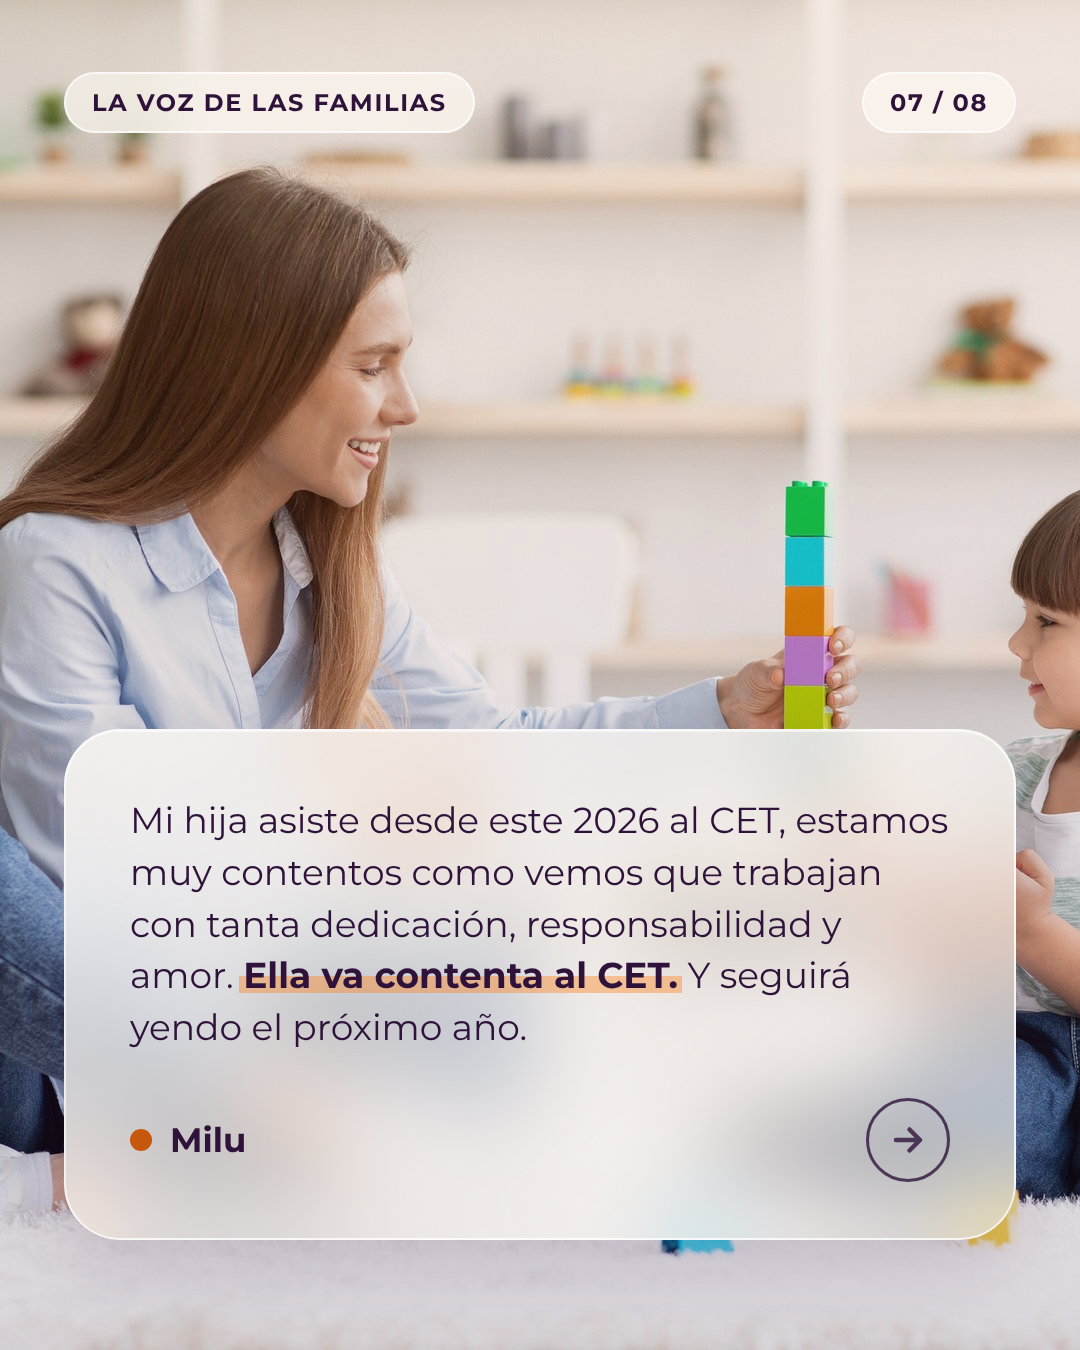
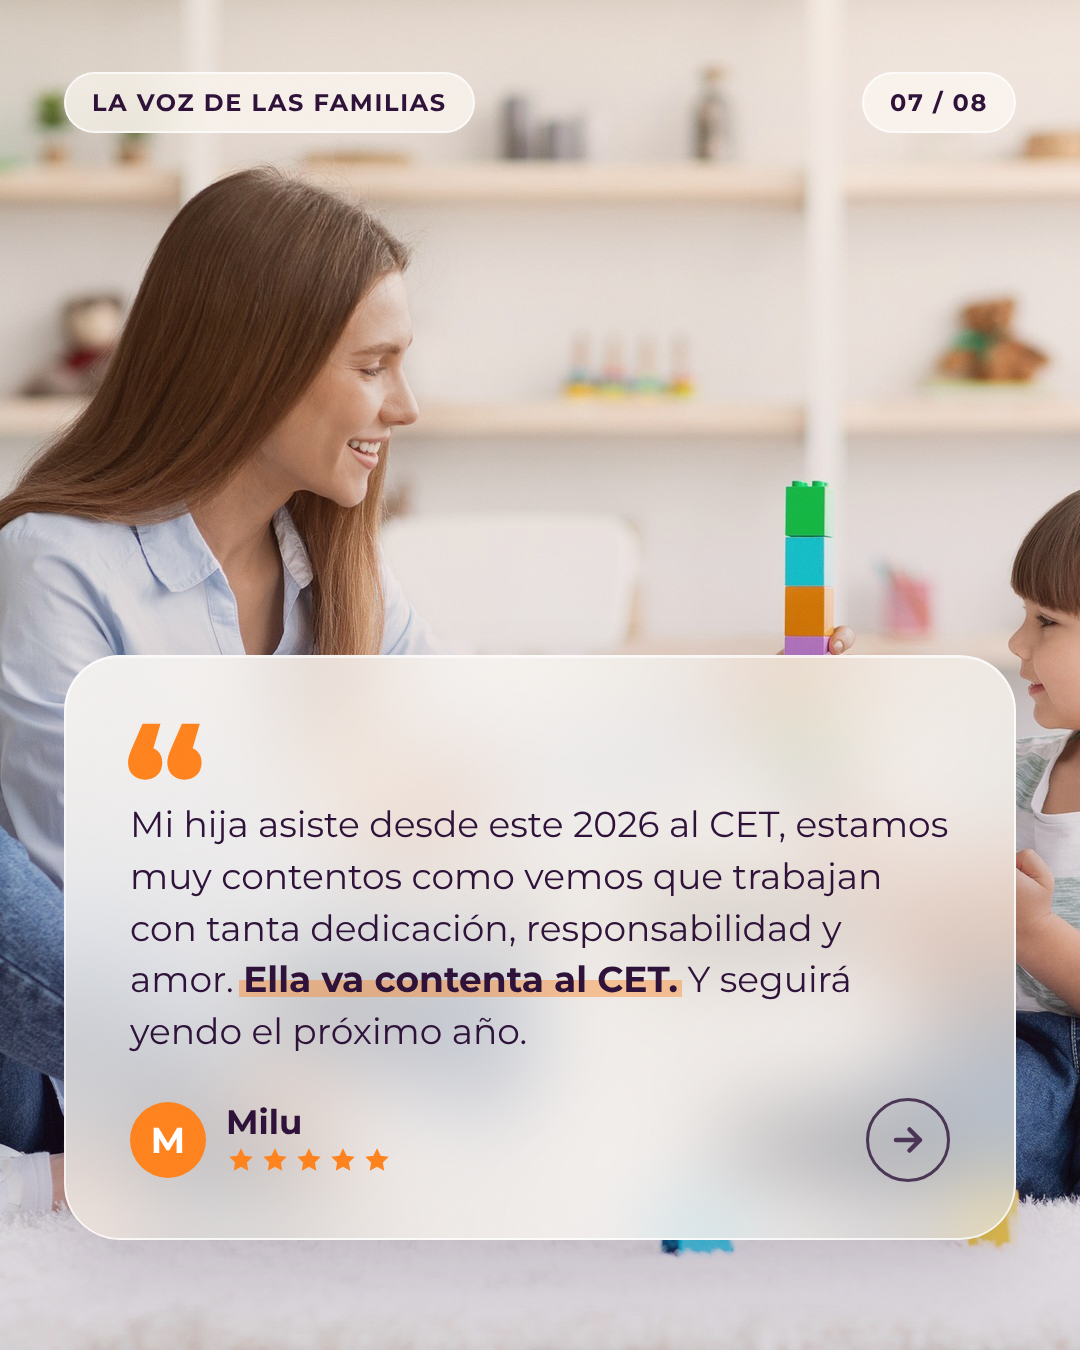
ADIP carousel: add review cues (quote mark, initial, stars)
Claude-Session: https://claude.ai/code/session_01M2Lxgiueyi8rDFxgAsKuBZ

Changed region(s): [[0.0611, 0.4667, 0.9472, 0.7778], [0.1222, 0.8089, 0.3667, 0.8711]]

diff --git a/adip-carrusel-resenas/fuente/carrusel.html b/adip-carrusel-resenas/fuente/carrusel.html
@@ -89,10 +89,16 @@
   .cita + .texto, .texto + .cita { margin-top: 34px; }
   .omite { opacity: .55; font-weight: 600; }
 
-  .pie { display: flex; justify-content: space-between; align-items: center; margin-top: 44px; }
-  .firma { display: flex; align-items: center; gap: 18px; font-size: 34px; font-weight: 700; }
-  .firma::before { content: ""; width: 22px; height: 22px; border-radius: 50%; background: var(--acento); }
-  .firma small { font-size: 30px; font-weight: 400; opacity: .8; }
+  .pie { display: flex; justify-content: space-between; align-items: center; margin-top: 40px; }
+  /* Señales de reseña: comilla de apertura, inicial, nombre y estrellas */
+  .abre { font-weight: 800; font-size: 150px; line-height: 1; height: 78px; margin: -14px 0 14px -6px; color: var(--naranja); }
+  .firma { display: flex; align-items: center; gap: 20px; }
+  .av { width: 76px; height: 76px; border-radius: 50%; background: var(--naranja); color: #fff; display: grid; place-items: center; font-size: 36px; font-weight: 700; flex: none; }
+  .quien { display: flex; flex-direction: column; gap: 6px; }
+  .quien b { font-size: 34px; font-weight: 700; line-height: 1; }
+  .quien small { font-size: 30px; font-weight: 400; opacity: .8; }
+  .estrellas { display: flex; gap: 4px; }
+  .estrellas svg { width: 30px; height: 30px; fill: var(--naranja); }
   .flecha { width: 84px; height: 84px; border-radius: 50%; border: 3px solid currentColor; display: grid; place-items: center; opacity: .8; flex: none; }
   .flecha svg { width: 36px; height: 36px; fill: none; stroke: currentColor; stroke-width: 3; stroke-linecap: round; stroke-linejoin: round; }
 
@@ -126,10 +132,11 @@
   <div class="top"><span class="pastilla">La voz de las familias</span><span class="pastilla">02 / 08</span></div>
   <div class="zona abajo" style="bottom:120px;">
     <div class="vidrio">
+      <div class="abre">“</div>
       <div class="texto">
         <p><mark>Desde que pisamos el lugar, es amor, respeto, empatía,</mark> saben entender las inseguridades como familia, e identificar las necesidades de mi hijo... en lo personal, no tengo más que agradecimiento, y 100% confiable, poseen cámaras en todos los espacios, las referentes y coordinadoras tienen una calidez humana hermosa... Gracias Equipo ADIP por sacar adelante a&nbsp;mi&nbsp;hijo!</p>
       </div>
-      <div class="pie"><span class="firma">Sabrina</span><span class="flecha"><svg viewBox="0 0 24 24"><path d="M4 12h16M13 5l7 7-7 7"/></svg></span></div>
+      <div class="pie"><span class="firma"><span class="av">S</span><span class="quien"><b>Sabrina</b><span class="estrellas"><svg viewBox="0 0 24 24"><path d="M12 2.6l2.9 5.9 6.5.9-4.7 4.6 1.1 6.5L12 17.4l-5.8 3.1 1.1-6.5L2.6 9.4l6.5-.9z"/></svg><svg viewBox="0 0 24 24"><path d="M12 2.6l2.9 5.9 6.5.9-4.7 4.6 1.1 6.5L12 17.4l-5.8 3.1 1.1-6.5L2.6 9.4l6.5-.9z"/></svg><svg viewBox="0 0 24 24"><path d="M12 2.6l2.9 5.9 6.5.9-4.7 4.6 1.1 6.5L12 17.4l-5.8 3.1 1.1-6.5L2.6 9.4l6.5-.9z"/></svg><svg viewBox="0 0 24 24"><path d="M12 2.6l2.9 5.9 6.5.9-4.7 4.6 1.1 6.5L12 17.4l-5.8 3.1 1.1-6.5L2.6 9.4l6.5-.9z"/></svg><svg viewBox="0 0 24 24"><path d="M12 2.6l2.9 5.9 6.5.9-4.7 4.6 1.1 6.5L12 17.4l-5.8 3.1 1.1-6.5L2.6 9.4l6.5-.9z"/></svg></span></span></span><span class="flecha"><svg viewBox="0 0 24 24"><path d="M4 12h16M13 5l7 7-7 7"/></svg></span></div>
     </div>
   </div>
 </section>
@@ -140,13 +147,14 @@
   <div class="top"><span class="pastilla">La voz de las familias</span><span class="pastilla">03 / 08</span></div>
   <div class="zona arriba" style="top:164px;">
     <div class="vidrio">
+      <div class="abre">“</div>
       <div class="texto">
         <p>Excelente centro. Quiero destacar la organización en la entrada y salida de los chicos, siempre con mucho orden, paciencia y cuidado.</p>
         <p>Las personas que están en la puerta son muy amables, atentas y siempre dispuestas a ayudar, te hacen sentir tranquilo al dejar a&nbsp;tu&nbsp;hijo.</p>
         <p>Y los maestras un 10, con mucha dedicación, cariño y compromiso con cada chico. <mark>Se nota que aman lo que hacen.</mark></p>
         <p>Super recomendable para todas las familias. Gracias ADIP por tanto!</p>
       </div>
-      <div class="pie"><span class="firma">Walter</span><span class="flecha"><svg viewBox="0 0 24 24"><path d="M4 12h16M13 5l7 7-7 7"/></svg></span></div>
+      <div class="pie"><span class="firma"><span class="av">W</span><span class="quien"><b>Walter</b><span class="estrellas"><svg viewBox="0 0 24 24"><path d="M12 2.6l2.9 5.9 6.5.9-4.7 4.6 1.1 6.5L12 17.4l-5.8 3.1 1.1-6.5L2.6 9.4l6.5-.9z"/></svg><svg viewBox="0 0 24 24"><path d="M12 2.6l2.9 5.9 6.5.9-4.7 4.6 1.1 6.5L12 17.4l-5.8 3.1 1.1-6.5L2.6 9.4l6.5-.9z"/></svg><svg viewBox="0 0 24 24"><path d="M12 2.6l2.9 5.9 6.5.9-4.7 4.6 1.1 6.5L12 17.4l-5.8 3.1 1.1-6.5L2.6 9.4l6.5-.9z"/></svg><svg viewBox="0 0 24 24"><path d="M12 2.6l2.9 5.9 6.5.9-4.7 4.6 1.1 6.5L12 17.4l-5.8 3.1 1.1-6.5L2.6 9.4l6.5-.9z"/></svg><svg viewBox="0 0 24 24"><path d="M12 2.6l2.9 5.9 6.5.9-4.7 4.6 1.1 6.5L12 17.4l-5.8 3.1 1.1-6.5L2.6 9.4l6.5-.9z"/></svg></span></span></span><span class="flecha"><svg viewBox="0 0 24 24"><path d="M4 12h16M13 5l7 7-7 7"/></svg></span></div>
     </div>
   </div>
 </section>
@@ -157,12 +165,13 @@
   <div class="top"><span class="pastilla">La voz de las familias</span><span class="pastilla">04 / 08</span></div>
   <div class="zona arriba" style="top:150px;">
     <div class="vidrio">
+      <div class="abre">“</div>
       <div class="texto">
         <p><mark>Estoy sumamente conforme y agradecida de haber encontrado un lugar como este.</mark> Es una institución excelente, donde se nota el compromiso, la vocación y, sobre todo, el amor con el que trabajan.</p>
         <p><span class="omite">[…]</span> Se nota que detrás de cada intervención hay mucho conocimiento, pero también una enorme sensibilidad, empatía y respeto por las necesidades individuales de cada uno.</p>
         <p>Es un lugar donde los chicos son verdaderamente escuchados, acompañados, valorados y contenidos.</p>
       </div>
-      <div class="pie"><span class="firma">Cintia <small>· sigue</small></span><span class="flecha"><svg viewBox="0 0 24 24"><path d="M4 12h16M13 5l7 7-7 7"/></svg></span></div>
+      <div class="pie"><span class="firma"><span class="av">C</span><span class="quien"><b>Cintia <small>· sigue</small></b><span class="estrellas"><svg viewBox="0 0 24 24"><path d="M12 2.6l2.9 5.9 6.5.9-4.7 4.6 1.1 6.5L12 17.4l-5.8 3.1 1.1-6.5L2.6 9.4l6.5-.9z"/></svg><svg viewBox="0 0 24 24"><path d="M12 2.6l2.9 5.9 6.5.9-4.7 4.6 1.1 6.5L12 17.4l-5.8 3.1 1.1-6.5L2.6 9.4l6.5-.9z"/></svg><svg viewBox="0 0 24 24"><path d="M12 2.6l2.9 5.9 6.5.9-4.7 4.6 1.1 6.5L12 17.4l-5.8 3.1 1.1-6.5L2.6 9.4l6.5-.9z"/></svg><svg viewBox="0 0 24 24"><path d="M12 2.6l2.9 5.9 6.5.9-4.7 4.6 1.1 6.5L12 17.4l-5.8 3.1 1.1-6.5L2.6 9.4l6.5-.9z"/></svg><svg viewBox="0 0 24 24"><path d="M12 2.6l2.9 5.9 6.5.9-4.7 4.6 1.1 6.5L12 17.4l-5.8 3.1 1.1-6.5L2.6 9.4l6.5-.9z"/></svg></span></span></span><span class="flecha"><svg viewBox="0 0 24 24"><path d="M4 12h16M13 5l7 7-7 7"/></svg></span></div>
     </div>
   </div>
 </section>
@@ -173,12 +182,13 @@
   <div class="top"><span class="pastilla">La voz de las familias</span><span class="pastilla">05 / 08</span></div>
   <div class="zona abajo" style="bottom:110px;">
     <div class="vidrio">
+      <div class="abre">“</div>
       <div class="texto">
         <p>Como mamá, no hay nada más importante que sentir tranquilidad y confianza al saber que tu hijo está en manos de personas que trabajan con tanta dedicación y vocación.</p>
         <p>Mi reconocimiento y agradecimiento a todo el equipo por la enorme labor que&nbsp;realizan.&nbsp;<span class="omite">[…]</span></p>
         <p><mark>Sin dudas, un lugar que recomiendo con los ojos cerrados.</mark></p>
       </div>
-      <div class="pie"><span class="firma">Cintia</span><span class="flecha"><svg viewBox="0 0 24 24"><path d="M4 12h16M13 5l7 7-7 7"/></svg></span></div>
+      <div class="pie"><span class="firma"><span class="av">C</span><span class="quien"><b>Cintia</b><span class="estrellas"><svg viewBox="0 0 24 24"><path d="M12 2.6l2.9 5.9 6.5.9-4.7 4.6 1.1 6.5L12 17.4l-5.8 3.1 1.1-6.5L2.6 9.4l6.5-.9z"/></svg><svg viewBox="0 0 24 24"><path d="M12 2.6l2.9 5.9 6.5.9-4.7 4.6 1.1 6.5L12 17.4l-5.8 3.1 1.1-6.5L2.6 9.4l6.5-.9z"/></svg><svg viewBox="0 0 24 24"><path d="M12 2.6l2.9 5.9 6.5.9-4.7 4.6 1.1 6.5L12 17.4l-5.8 3.1 1.1-6.5L2.6 9.4l6.5-.9z"/></svg><svg viewBox="0 0 24 24"><path d="M12 2.6l2.9 5.9 6.5.9-4.7 4.6 1.1 6.5L12 17.4l-5.8 3.1 1.1-6.5L2.6 9.4l6.5-.9z"/></svg><svg viewBox="0 0 24 24"><path d="M12 2.6l2.9 5.9 6.5.9-4.7 4.6 1.1 6.5L12 17.4l-5.8 3.1 1.1-6.5L2.6 9.4l6.5-.9z"/></svg></span></span></span><span class="flecha"><svg viewBox="0 0 24 24"><path d="M4 12h16M13 5l7 7-7 7"/></svg></span></div>
     </div>
   </div>
 </section>
@@ -189,10 +199,11 @@
   <div class="top"><span class="pastilla">La voz de las familias</span><span class="pastilla">06 / 08</span></div>
   <div class="zona abajo" style="bottom:130px;">
     <div class="vidrio">
+      <div class="abre">“</div>
       <div class="texto">
         <p><mark>Adip fue para mi hijo y para mí un lugar seguro.</mark> Un espacio en el que no hubo rechazo, en el que recibimos apoyo y contención. Y con esa plataforma, ambos pudimos desarrollarnos y tener un presente prometedor. Gracias.</p>
       </div>
-      <div class="pie"><span class="firma">Ines</span><span class="flecha"><svg viewBox="0 0 24 24"><path d="M4 12h16M13 5l7 7-7 7"/></svg></span></div>
+      <div class="pie"><span class="firma"><span class="av">I</span><span class="quien"><b>Ines</b><span class="estrellas"><svg viewBox="0 0 24 24"><path d="M12 2.6l2.9 5.9 6.5.9-4.7 4.6 1.1 6.5L12 17.4l-5.8 3.1 1.1-6.5L2.6 9.4l6.5-.9z"/></svg><svg viewBox="0 0 24 24"><path d="M12 2.6l2.9 5.9 6.5.9-4.7 4.6 1.1 6.5L12 17.4l-5.8 3.1 1.1-6.5L2.6 9.4l6.5-.9z"/></svg><svg viewBox="0 0 24 24"><path d="M12 2.6l2.9 5.9 6.5.9-4.7 4.6 1.1 6.5L12 17.4l-5.8 3.1 1.1-6.5L2.6 9.4l6.5-.9z"/></svg><svg viewBox="0 0 24 24"><path d="M12 2.6l2.9 5.9 6.5.9-4.7 4.6 1.1 6.5L12 17.4l-5.8 3.1 1.1-6.5L2.6 9.4l6.5-.9z"/></svg><svg viewBox="0 0 24 24"><path d="M12 2.6l2.9 5.9 6.5.9-4.7 4.6 1.1 6.5L12 17.4l-5.8 3.1 1.1-6.5L2.6 9.4l6.5-.9z"/></svg></span></span></span><span class="flecha"><svg viewBox="0 0 24 24"><path d="M4 12h16M13 5l7 7-7 7"/></svg></span></div>
     </div>
   </div>
 </section>
@@ -203,10 +214,11 @@
   <div class="top"><span class="pastilla">La voz de las familias</span><span class="pastilla">07 / 08</span></div>
   <div class="zona abajo" style="bottom:110px;">
     <div class="vidrio">
+      <div class="abre">“</div>
       <div class="texto">
         <p>Mi hija asiste desde este 2026 al CET, estamos muy contentos como vemos que trabajan con tanta dedicación, responsabilidad y amor. <mark>Ella va contenta al CET.</mark> Y seguirá yendo el próximo año.</p>
       </div>
-      <div class="pie"><span class="firma">Milu</span><span class="flecha"><svg viewBox="0 0 24 24"><path d="M4 12h16M13 5l7 7-7 7"/></svg></span></div>
+      <div class="pie"><span class="firma"><span class="av">M</span><span class="quien"><b>Milu</b><span class="estrellas"><svg viewBox="0 0 24 24"><path d="M12 2.6l2.9 5.9 6.5.9-4.7 4.6 1.1 6.5L12 17.4l-5.8 3.1 1.1-6.5L2.6 9.4l6.5-.9z"/></svg><svg viewBox="0 0 24 24"><path d="M12 2.6l2.9 5.9 6.5.9-4.7 4.6 1.1 6.5L12 17.4l-5.8 3.1 1.1-6.5L2.6 9.4l6.5-.9z"/></svg><svg viewBox="0 0 24 24"><path d="M12 2.6l2.9 5.9 6.5.9-4.7 4.6 1.1 6.5L12 17.4l-5.8 3.1 1.1-6.5L2.6 9.4l6.5-.9z"/></svg><svg viewBox="0 0 24 24"><path d="M12 2.6l2.9 5.9 6.5.9-4.7 4.6 1.1 6.5L12 17.4l-5.8 3.1 1.1-6.5L2.6 9.4l6.5-.9z"/></svg><svg viewBox="0 0 24 24"><path d="M12 2.6l2.9 5.9 6.5.9-4.7 4.6 1.1 6.5L12 17.4l-5.8 3.1 1.1-6.5L2.6 9.4l6.5-.9z"/></svg></span></span></span><span class="flecha"><svg viewBox="0 0 24 24"><path d="M4 12h16M13 5l7 7-7 7"/></svg></span></div>
     </div>
   </div>
 </section>
